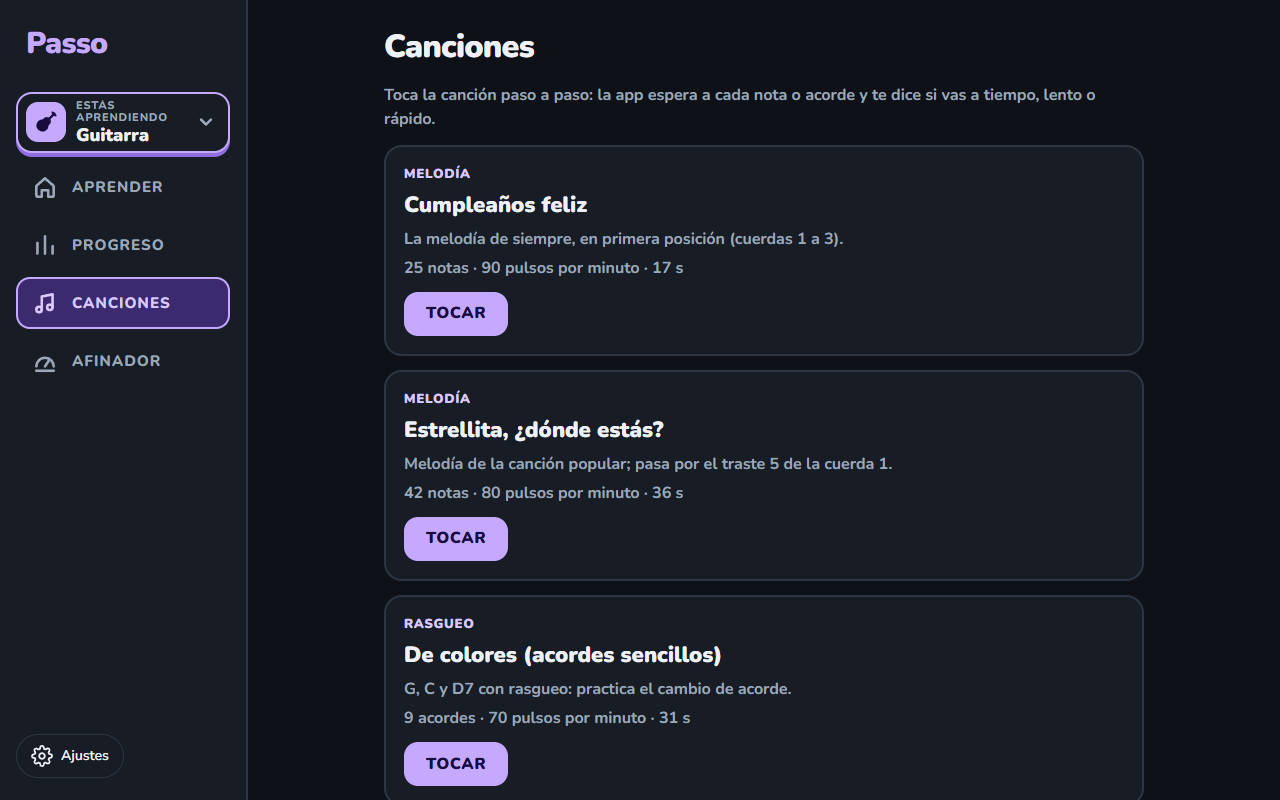
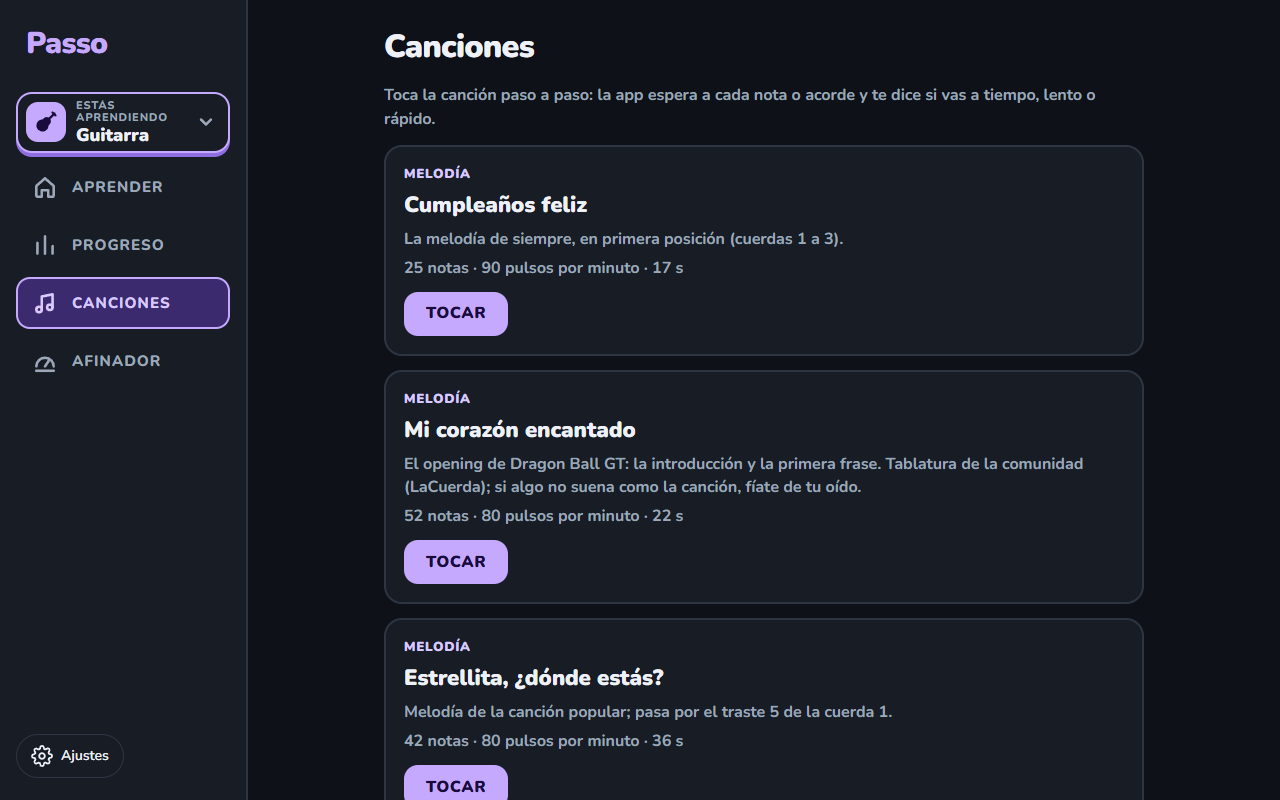
feat: «Mi corazón encantado» (Dragon Ball GT) en las canciones de guitarra, leída de una tablatura de la comunidad (intro y primera frase, sin letra)
Nuevo lector de tablatura (stepsFromTab); tempo y duraciones estimados.

Changed region(s): [[0.3125, 0.5312, 0.9062, 1.0]]

diff --git a/src/core/domain/songs.ts b/src/core/domain/songs.ts
@@ -66,6 +66,38 @@ const chord = (
   lyric: string,
 ): ChordStep => ({ kind: 'acorde', chord: name, shape, strum, beats, lyric });
 
+/**
+ * Una melodía escrita como tablatura (seis líneas, de la cuerda 1 a la 6, sin las letras de las cuerdas).
+ * Cada columna es el mismo tiempo: una nota dura lo que hay hasta la siguiente (cuatro columnas = un pulso;
+ * la última, un pulso). Se leen solo los números; los guiones son silencio entre notas.
+ */
+const DIGIT = /[0-9]/;
+
+export function stepsFromTab(blocks: readonly (readonly string[])[]): SongStep[] {
+  const steps: SongStep[] = [];
+  for (const block of blocks) {
+    if (block.length !== 6) throw new RangeError('Un bloque de tablatura lleva seis líneas');
+    const found: { column: number; string: GuitarString; fret: number }[] = [];
+    const width = Math.max(...block.map((line) => line.length));
+    for (let column = 0; column < width; column++) {
+      for (let index = 0; index < 6; index++) {
+        const line = block[index] ?? '';
+        const char = line[column] ?? '-';
+        if (!DIGIT.test(char) || DIGIT.test(line[column - 1] ?? '-')) continue;
+        const fret = Number(/^[0-9]+/.exec(line.slice(column))?.[0]);
+        found.push({ column, string: (index + 1) as GuitarString, fret });
+        break;
+      }
+    }
+    found.forEach((item, position) => {
+      const next = found[position + 1];
+      const beats = next ? Math.min(2, Math.max(0.25, (next.column - item.column) / 4)) : 1;
+      steps.push(note(item.string, item.fret, beats, ''));
+    });
+  }
+  return steps;
+}
+
 const HAPPY_BIRTHDAY: readonly SongStep[] = [
   note(3, 0, 0.75, 'Cum'),
   note(3, 0, 0.25, 'ple'),
@@ -153,6 +185,34 @@ const TWINKLE: readonly SongStep[] = (() => {
   return [...a, ...b, ...c, ...d, ...a, ...b];
 })();
 
+/** Introducción y primera frase de la melodía de «Mi corazón encantado» (tablatura de la comunidad). */
+const MI_CORAZON: readonly SongStep[] = stepsFromTab([
+  [
+    '---3-3-----3-5-3---------------------------------',
+    '-------5-6-------6-5-3----5-5-----5-6-5----------',
+    '------------------------------5-7-------7-5-4-2--',
+    '-------------------------------------------------',
+    '-------------------------------------------------',
+    '-------------------------------------------------',
+  ],
+  [
+    '--------5-3---------------------------',
+    '--------------3-5-6-5-3---3----1-0-1--',
+    '--2-2-5-----5-----------5-------------',
+    '--------------------------------------',
+    '--------------------------------------',
+    '--------------------------------------',
+  ],
+  [
+    '----------------------------------',
+    '----------------------------------',
+    '----------------------------------',
+    '-----6-5-3---------8-6-5----------',
+    '---3-------6-5-6-5-------8-6-8-7--',
+    '----------------------------------',
+  ],
+]);
+
 const G_SHAPE =
   'Dedo 2 en la cuerda 6 (traste 3), dedo 1 en la 5 (traste 2), dedo 3 en la 1 (traste 3). Las seis cuerdas.';
 const C_SHAPE =
@@ -181,6 +241,15 @@ export const SONGS: readonly Song[] = [
     bpm: 90,
     summary: 'La melodía de siempre, en primera posición (cuerdas 1 a 3).',
     steps: HAPPY_BIRTHDAY,
+  },
+  {
+    id: 'mi-corazon-encantado',
+    title: 'Mi corazón encantado',
+    style: 'melodia',
+    bpm: 80,
+    summary:
+      'El opening de Dragon Ball GT: la introducción y la primera frase. Tablatura de la comunidad (LaCuerda); si algo no suena como la canción, fíate de tu oído.',
+    steps: MI_CORAZON,
   },
   {
     id: 'estrellita',

diff --git a/tests/core/songs.test.ts b/tests/core/songs.test.ts
@@ -6,14 +6,16 @@ import {
   judgePace,
   paceText,
   stepMatches,
+  stepsFromTab,
   stepMs,
   summarize,
 } from '@/core/domain/songs';
 import type { StepResult } from '@/core/domain/songs';
 
 describe('el catálogo de canciones', () => {
-  it('hay al menos tres: dos melodías y un rasgueo, con «Cumpleaños feliz»', () => {
-    expect(SONGS.length).toBeGreaterThanOrEqual(3);
+  it('hay al menos cuatro: tres melodías (con «Cumpleaños feliz» y «Mi corazón encantado») y un rasgueo', () => {
+    expect(SONGS.length).toBeGreaterThanOrEqual(4);
+    expect(findSong('mi-corazon-encantado')?.style).toBe('melodia');
     expect(findSong('cumpleanos-feliz')?.style).toBe('melodia');
     expect(SONGS.some((song) => song.style === 'rasgueo')).toBe(true);
     expect(new Set(SONGS.map((song) => song.id)).size).toBe(SONGS.length);
@@ -45,6 +47,31 @@ describe('el catálogo de canciones', () => {
         }
       });
     }
+  });
+});
+
+describe('la tablatura', () => {
+  it('se lee de columna en columna: la cuerda, el traste y lo que dura hasta la siguiente', () => {
+    const steps = stepsFromTab([
+      ['--3---5-', '--------', '--------', '--------', '--------', '--------'],
+    ]);
+    expect(steps).toHaveLength(2);
+    expect(steps[0]).toMatchObject({ kind: 'nota', string: 1, fret: 3, midi: 67, beats: 1 });
+    expect(steps[1]).toMatchObject({ string: 1, fret: 5, beats: 1 });
+    const quick = stepsFromTab([['3-5-', '----', '----', '----', '----', '----']]);
+    expect(quick[0]?.beats).toBe(0.5);
+  });
+
+  it('un bloque lleva seis líneas', () => {
+    expect(() => stepsFromTab([['3-5']])).toThrow(RangeError);
+  });
+
+  it('«Mi corazón encantado» empieza con Sol y Sol en la cuerda 1 (traste 3) y no lleva letra', () => {
+    const steps = findSong('mi-corazon-encantado')?.steps ?? [];
+    expect(steps.length).toBeGreaterThan(40);
+    expect(steps[0]).toMatchObject({ string: 1, fret: 3, midi: 67 });
+    expect(steps[1]).toMatchObject({ string: 1, fret: 3, midi: 67 });
+    expect(steps.every((step) => step.kind === 'nota' && step.lyric === '')).toBe(true);
   });
 });
 

diff --git a/tests/e2e/canciones.spec.ts b/tests/e2e/canciones.spec.ts
@@ -25,14 +25,14 @@ async function openSong(page: Page, id: string): Promise<void> {
   await expect(page.getByTestId('song-calibrating')).toHaveCount(0, { timeout: 10_000 });
 }
 
-test('Canciones · la lista tiene tres canciones y se llega desde la navegación', async ({
+test('Canciones · la lista tiene cuatro canciones y se llega desde la navegación', async ({
   page,
 }) => {
   await chooseGuitar(page);
   await page.goto('/?seed=7#/guitarra');
   await page.getByRole('link', { name: 'Canciones' }).first().click();
   await expect(page.getByRole('heading', { level: 1, name: 'Canciones' })).toBeVisible();
-  await expect(page.locator('.songs__card')).toHaveCount(3);
+  await expect(page.locator('.songs__card')).toHaveCount(4);
   await expect(page.getByTestId('song-cumpleanos-feliz')).toBeVisible();
   await capture(page, '01-lista');
 });

diff --git a/src/ui/screens/SongScreen.tsx b/src/ui/screens/SongScreen.tsx
@@ -42,7 +42,7 @@ function StepCard({
   if (step.kind === 'nota') {
     return (
       <div className="song__now" data-kind="nota" data-testid="song-now">
-        <p className="song__lyric">{step.lyric}</p>
+        {step.lyric ? <p className="song__lyric">{step.lyric}</p> : null}
         <p className="song__big">{noteLabel(step.midi, notation, 'guitarra')}</p>
         <p className="song__how">
           Cuerda {step.string} · {step.fret === 0 ? 'al aire' : `traste ${step.fret}`}

diff --git a/README.md b/README.md
@@ -181,7 +181,7 @@ de instrumento y la ventana de la lección como hoja que sube desde abajo.
 | **Juego** | Experiencia, niveles, racha de días (con un día de descanso por semana) y meta diaria de 5 minutos |
 | **Progreso** | Mapa de calor del teclado, curva de precisión, notas que más cuestan por instrumento |
 | **Afinador de guitarra** | Automático (detecta la cuerda que tocas y dice si apretar o aflojar; la aguja no desaparece al callarse), clavijero con el estado de las seis cuerdas, medidor (Grave / Aguda / Casi / Afinada, cents y Hz), nota de referencia, modo guiado «Afinar las 6» y La₄ ajustable |
-| **Canciones de guitarra** | Cumpleaños feliz, Estrellita y un rasgueo (De colores): te muestran la nota o el acorde de cada paso y dicen si vas a tiempo, lento o rápido, también en el cambio de acorde |
+| **Canciones de guitarra** | Cumpleaños feliz, Mi corazón encantado (Dragon Ball GT), Estrellita y un rasgueo (De colores): te muestran la nota o el acorde de cada paso y dicen si vas a tiempo, lento o rápido, también en el cambio de acorde |
 | **Práctica libre** | La pantalla de siempre: notas, terceras o acordes, a tu nivel y con la ayuda que elijas |
 | **Ajustes** | Entrada (micrófono, MIDI o teclado del PC), ejercicio y nivel, notación Do Re Mi o C D E, ayuda y tema. Se recuerdan |
 | **Accesibilidad** | Contraste AA comprobado por pruebas, nada depende solo del color, navegación con teclado, anuncios para lector de pantalla y respeto de «reducir movimiento» |
@@ -327,7 +327,7 @@ evidencias/    videos y capturas de cada fase cerrada, con su informe
 | `E2E_VIDEO=off npm run e2e` | Lo mismo sin grabar video |
 | `npm run build` · `npm run preview` | Compilación de producción y vista previa |
 
-`npm run check` pasa con **1588 pruebas** en 85 archivos y la suite e2e tiene **68 pruebas en Edge**.
+`npm run check` pasa con **1591 pruebas** en 85 archivos y la suite e2e tiene **68 pruebas en Edge**.
 Cada fase cerrada deja su informe, su video y sus capturas en [`evidencias/`](evidencias/).
 
 Para volver a generar las capturas de este README (usan un micrófono simulado y no corren con

diff --git a/docs/fases/canciones.md b/docs/fases/canciones.md
@@ -16,10 +16,11 @@ Una sección **Canciones** en la navegación de guitarra (`#/canciones`, `#/canc
 | Canción | Estilo | Notas |
 |---|---|---|
 | **Cumpleaños feliz** | Melodía | 25 notas en primera posición (cuerdas 1 a 3) |
+| **Mi corazón encantado** | Melodía | Opening de Dragon Ball GT: la introducción y la primera frase (~50 notas, cuerdas 1 a 5) |
 | **Estrellita, ¿dónde estás?** | Melodía | Canción popular; pasa por el traste 5 de la cuerda 1 |
 | **De colores (acordes sencillos)** | Rasgueo | G, C y D7 con «↓ ↓↑ ↑↓↑»; es una progresión sencilla, no el arreglo exacto |
 
-**«Mi corazón encantado» no está.** No se transcribe de memoria (no sé la melodía con certeza): hace falta tu tablatura o una grabación. El formato (`src/core/domain/songs.ts`) ya admite agregarla: una lista de `note(cuerda, traste, pulsos, letra)` o `chord(...)`.
+**«Mi corazón encantado»** sale de la tablatura de la comunidad de [LaCuerda](https://acordes.lacuerda.net/cesar_franco/mi_corazon_encantado.shtml) (transcrita por Alejandro Arnais), no de memoria: `stepsFromTab` lee las columnas de la tablatura (cuatro columnas = un pulso; las notas duran hasta la siguiente). Solo lleva la introducción y la primera frase, **sin letra** (es una canción con derechos). Esa tablatura no trae tempo ni compás: el tempo (80) y las duraciones son una estimación, así que si algo no suena como la canción, fíate de tu oído y dime qué corregir. Para agregar más canciones basta una lista de `note(...)`, `chord(...)` o una tablatura.
 
 ## Decisiones
 
